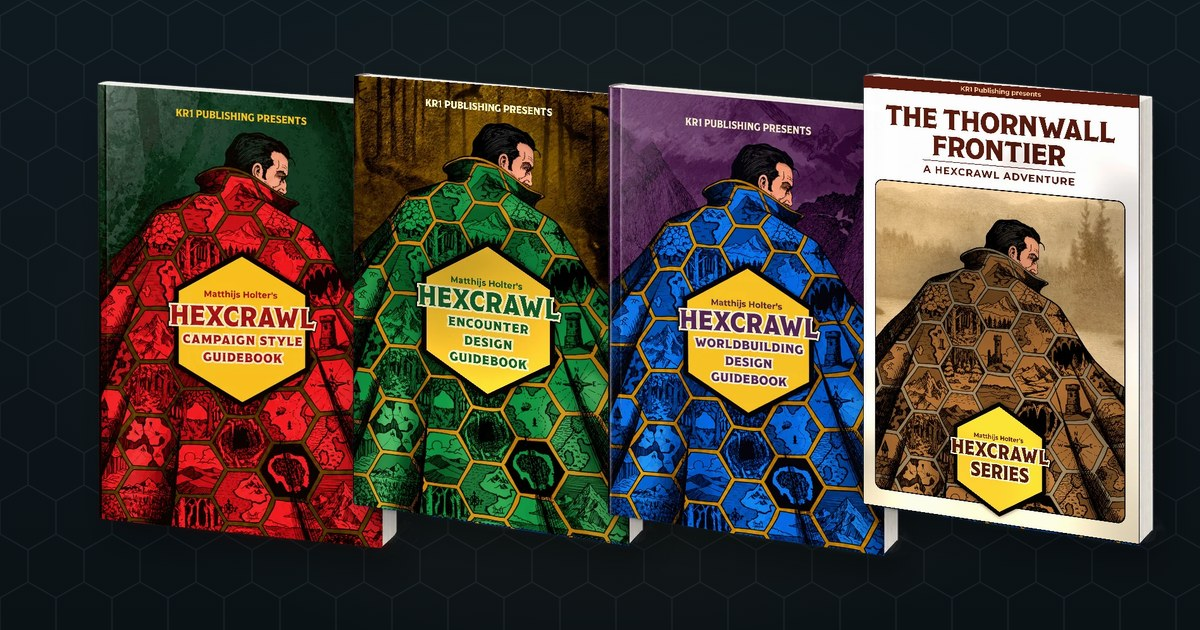
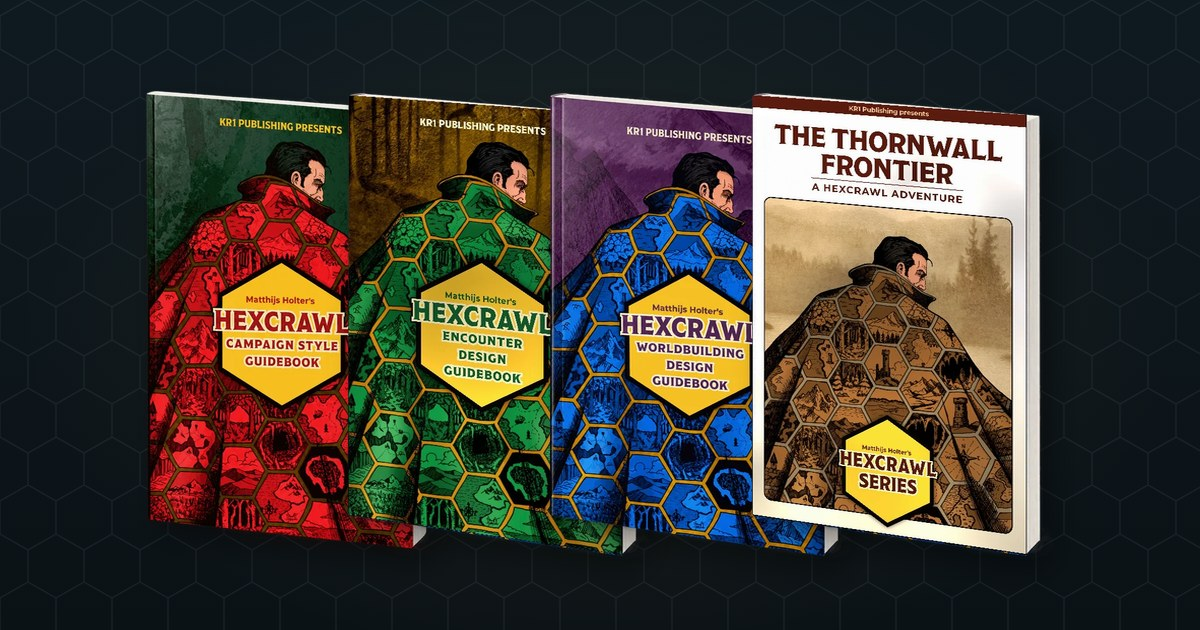
Gründer page: six roles with period prints from the book, hoard painting band, Accountant and setting facts; even book stacks in series share images
Claude-Session: https://claude.ai/code/session_01Go6ret7jCLgDqqds4EMTee

diff --git a/grunder.html b/grunder.html
@@ -23,7 +23,7 @@
 <link rel="icon" href="/img/ashborn/kr1hex.png">
 <link rel="preload" as="image" href="/img/series/grunder.webp" type="image/webp">
 <script type="application/ld+json">{"@context": "https://schema.org", "@type": "Book", "name": "Gründer: Business Adventure Game", "url": "https://www.kr1publishing.com/grunder", "sameAs": "https://www.drivethrurpg.com/en/product/555680", "author": {"@type": "Person", "name": "Petter Fornes"}, "publisher": {"@type": "Organization", "name": "KR1 Publishing", "url": "https://www.kr1publishing.com"}, "inLanguage": "en", "genre": "Tabletop roleplaying game", "bookFormat": "https://schema.org/Paperback", "image": "https://www.kr1publishing.com/img/covers-hires/grunder.jpg", "description": "A one-shot OSR adventure game for 3 to 6 players on Into the Odd rules."}</script>
-<script type="application/ld+json">{"@context": "https://schema.org", "@type": "FAQPage", "mainEntity": [{"@type": "Question", "name": "Do I need Into the Odd to play?", "acceptedAnswer": {"@type": "Answer", "text": "You do not need it, because Gründer is a complete game. The 24-page rulebook has everything, and it uses the Into the Odd rules by Chris McDowall, so if you know Cairn, Mausritter or Mythic Bastionland you already know how it plays."}}, {"@type": "Question", "name": "Is it really about business?", "acceptedAnswer": {"@type": "Answer", "text": "Only at the edges. At the table it plays like a classic OSR adventure, with a cave, a hoard and soldiers closing in. The business part is the reason you go in, and the last roll at the end."}}, {"@type": "Question", "name": "How long does a game take?", "acceptedAnswer": {"@type": "Answer", "text": "About one evening, since Gründer is built as a one-shot, and the session ends with the final roll that decides the fate of the company."}}, {"@type": "Question", "name": "How many players?", "acceptedAnswer": {"@type": "Answer", "text": "It plays with three to six players and a GM."}}, {"@type": "Question", "name": "Is it available in print?", "acceptedAnswer": {"@type": "Answer", "text": "Yes, as an A5 softcover in full colour. It is print on demand from DriveThruRPG and sold in selected game shops. Shops can order at retailer terms on the vendor page."}}, {"@type": "Question", "name": "Was AI used to make it?", "acceptedAnswer": {"@type": "Answer", "text": "No. The text, layout and editing are made by people, and the art is public domain."}}]}</script>
+<script type="application/ld+json">{"@context": "https://schema.org", "@type": "FAQPage", "mainEntity": [{"@type": "Question", "name": "Do I need Into the Odd to play?", "acceptedAnswer": {"@type": "Answer", "text": "You do not need it, because Gründer is a complete game. The 24-page rulebook has everything, and it uses the Into the Odd rules by Chris McDowall, so if you know Cairn, Mausritter or Mythic Bastionland you already know how it plays."}}, {"@type": "Question", "name": "Is it really about business?", "acceptedAnswer": {"@type": "Answer", "text": "Only at the edges. At the table it plays like a classic OSR adventure, with a cave, a hoard and soldiers closing in. The business part is the reason you go in, and the last roll at the end."}}, {"@type": "Question", "name": "How long does a game take?", "acceptedAnswer": {"@type": "Answer", "text": "About one evening, since Gründer is built as a one-shot, and the session ends with the final roll that decides the fate of the company."}}, {"@type": "Question", "name": "How many players?", "acceptedAnswer": {"@type": "Answer", "text": "Three to six, counting the GM. One player is the Accountant, who prepares the adventure and runs the game, and the others each play a Gründer."}}, {"@type": "Question", "name": "Is it available in print?", "acceptedAnswer": {"@type": "Answer", "text": "Yes, as an A5 softcover in full colour. It is print on demand from DriveThruRPG and sold in selected game shops. Shops can order at retailer terms on the vendor page."}}, {"@type": "Question", "name": "Was AI used to make it?", "acceptedAnswer": {"@type": "Answer", "text": "No. The text, layout and editing are made by people, and the art is public domain."}}]}</script>
 <style>
 :root{--ink:#1a0d08;--acc:#e8a33d;--acc-soft:#f0bc6a;--bone:#f0e6d8;--text:#dccfbd;--muted:#a08f7c;--night:#170c09;--night2:#1e110c;--dark:#120906;--card:#24150f;--line:#3a2519;--herobg:radial-gradient(ellipse 60% 80% at 74% 50%,rgba(232,163,61,.16),transparent 70%),linear-gradient(180deg,#25130d,#170c09)}
 
@@ -147,6 +147,15 @@ footer a:hover{text-decoration:underline}
 .inside li{margin-bottom:8px;break-inside:avoid}
 @media(max-width:640px){.inside{columns:1}}
 .made{border-left:3px solid var(--acc);padding-left:20px;margin-top:30px}
+.roles{display:grid;grid-template-columns:repeat(3,1fr);gap:18px;margin-top:30px}
+@media(max-width:860px){.roles{grid-template-columns:repeat(2,1fr)}}
+@media(max-width:520px){.roles{grid-template-columns:1fr}}
+.role{background:var(--card);border:1px solid var(--line);border-radius:8px;overflow:hidden}
+.role img{display:block;width:100%;height:auto;aspect-ratio:720/503;object-fit:cover;filter:sepia(.35) contrast(1.05)}
+.role div{padding:16px 18px 18px}
+.role h3{font-family:var(--disp);font-size:18px;color:#fff;letter-spacing:.04em;margin-bottom:6px}
+.role p{font-size:16px;line-height:1.5}
+.hoard{background:linear-gradient(180deg,rgba(18,9,6,.86),rgba(18,9,6,.93)),url(/img/grunder/hoard-band.webp) center/cover no-repeat}
 
 
 .shops{display:grid;grid-template-columns:repeat(auto-fit,minmax(220px,1fr));gap:14px;margin-top:26px}
@@ -161,7 +170,7 @@ footer a:hover{text-decoration:underline}
 <body>
 <nav><div class="in">
   <a class="logo" href="/"><img src="/img/ashborn/kr1hex.svg" alt="" width="30" height="34">KR1 PUBLISHING</a>
-  <ul><li><a href="#premise">The premise</a></li><li><a href="#play">How it plays</a></li><li><a href="#inside">What is inside</a></li><li><a href="#faq">Questions</a></li></ul>
+  <ul><li><a href="#premise">The premise</a></li><li><a href="#play">How it plays</a></li><li><a href="#roles">The roles</a></li><li><a href="#inside">What is inside</a></li></ul>
   <a class="btn sm" href="https://www.drivethrurpg.com/en/product/555680?affiliate_id=927841&src=site_grunder" target="_blank" rel="noopener">Get Gründer</a>
 </div></nav>
 
@@ -181,7 +190,7 @@ footer a:hover{text-decoration:underline}
 </div></div></header>
 
 <div class="proofbar"><div class="in">
-  <div><b>3&ndash;6</b><span>players and a GM</span></div>
+  <div><b>3&ndash;6</b><span>players, GM included</span></div>
   <div><b>1</b><span>evening</span></div>
   <div><b>24</b><span>page rulebook</span></div>
   <div><b>400+</b><span>copies sold</span></div>
@@ -193,12 +202,13 @@ footer a:hover{text-decoration:underline}
     <h2>A race to the hoard <em>and a way back out</em></h2>
     <p class="lead">You found a company together with a few other ambitious minds, but you have no money. Rumor says a dead killer kept a hoard in a cave outside town, and you are not the only ones who heard it.</p>
     <p>Thirty soldiers are on the road to take it, and all you have is a head start. Every room you open and every risk you take is a choice between more capital and a way home.</p>
+    <p>The game is set in the Holy Roman Empire of the 16th century, with a touch of the mythical. Money is counted in thalers, and the GM is called the Accountant.</p>
     <p>Petter Fornes wrote, designed and laid out the game himself in Trondheim. It plays like a classic OSR adventure, with a company sheet next to the character sheet.</p>
   </div>
   <div class="ledger"><h3>The question at the heart of it</h3><p style="color:#2b1d12;font-family:var(--disp);font-size:clamp(24px,3vw,32px);line-height:1.25">Can your Company secure enough capital to survive?</p><small>Whatever you carry out of the cave becomes your capital. The last roll of the night decides the answer.</small></div>
 </div></div></section>
 
-<section class="band" id="play"><div class="in">
+<section class="band hoard" id="play"><div class="in">
   <div class="center"><div class="kicker">How it plays</div><h2>How an evening <em>plays out</em></h2></div>
   <div class="cards">
     <div class="card"><div class="qn">1</div><h3>Found the company</h3><p>Make characters and fill in the company sheet together: who you are, what you want to build and how much you are willing to risk for it.</p></div>
@@ -207,6 +217,13 @@ footer a:hover{text-decoration:underline}
   </div>
 </div></section>
 
+
+<section id="roles"><div class="in">
+  <div class="center"><div class="kicker">The roles</div><h2>Six Gr&uuml;nders <em>with nothing but ambition</em></h2>
+  <p class="lead narrow">Every Gr&uuml;nder starts with a past, a few belongings and a reason to want the money. Pick one of six roles, roll the rest and answer the questions on the page.</p></div>
+  <div class="roles"><article class="role"><img src="/img/grunder/landsknecht.webp" alt="Landsknecht, period print used in Gr&uuml;nder" width="720" height="503" loading="lazy"><div><h3>Landsknecht</h3><p>A mercenary for the Emperor, or for the highest bidder. Puff and slash outfit, a feathered hat and a katzbalger sword.</p></div></article><article class="role"><img src="/img/grunder/lay-monastic.webp" alt="Lay Monastic, period print used in Gr&uuml;nder" width="720" height="503" loading="lazy"><div><h3>Lay Monastic</h3><p>A disciplined life in a monastery, without ever being ordained. Loose robes, a bible, ink and a quill.</p></div></article><article class="role"><img src="/img/grunder/peasant-serf.webp" alt="Peasant Serf, period print used in Gr&uuml;nder" width="720" height="503" loading="lazy"><div><h3>Peasant Serf</h3><p>A small farm, bound to the land of your lord. A worn woollen tunic, a ten-foot stick and a pitchfork.</p></div></article><article class="role"><img src="/img/grunder/rat-catcher.webp" alt="Rat Catcher, period print used in Gr&uuml;nder" width="720" height="503" loading="lazy"><div><h3>Rat Catcher</h3><p>The dirty jobs the fine folk would not touch. A patchy fur coat, a skinning knife and a cage full of rats.</p></div></article><article class="role"><img src="/img/grunder/silver-miner.webp" alt="Silver Miner, period print used in Gr&uuml;nder" width="720" height="503" loading="lazy"><div><h3>Silver Miner</h3><p>Years in the dark and the choking air, digging for someone else&rsquo;s profit. Pit trousers, a leather apron and a pick axe.</p></div></article><article class="role"><img src="/img/grunder/town-musician.webp" alt="Town Musician, period print used in Gr&uuml;nder" width="720" height="503" loading="lazy"><div><h3>Town Musician</h3><p>Joy for hamlets and big towns alike, living from hand to mouth. Puffy breeches, an extravagant cape and a sharp dagger.</p></div></article></div>
+  <p class="note center" style="margin-top:18px">The art in the book and on this page is public domain, from 16th and 17th century prints and paintings.</p>
+</div></section>
 <section id="inside"><div class="in"><div class="split">
   <div>
     <div class="kicker">What is inside</div>
@@ -230,11 +247,11 @@ footer a:hover{text-decoration:underline}
 
 <section class="band" id="faq"><div class="in">
   <div class="center"><div class="kicker">Questions</div><h2>Before you buy</h2></div>
-  <div class="faq"><details><summary>Do I need Into the Odd to play?</summary><p>You do not need it, because Gründer is a complete game. The 24-page rulebook has everything, and it uses the Into the Odd rules by Chris McDowall, so if you know Cairn, Mausritter or Mythic Bastionland you already know how it plays.</p></details><details><summary>Is it really about business?</summary><p>Only at the edges. At the table it plays like a classic OSR adventure, with a cave, a hoard and soldiers closing in. The business part is the reason you go in, and the last roll at the end.</p></details><details><summary>How long does a game take?</summary><p>About one evening, since Gründer is built as a one-shot, and the session ends with the final roll that decides the fate of the company.</p></details><details><summary>How many players?</summary><p>It plays with three to six players and a GM.</p></details><details><summary>Is it available in print?</summary><p>Yes, as an A5 softcover in full colour. It is print on demand from DriveThruRPG and sold in selected game shops. Shops can order at retailer terms on the <a href="/vendor">vendor page</a>.</p></details><details><summary>Was AI used to make it?</summary><p>No. The text, layout and editing are made by people, and the art is public domain.</p></details></div>
+  <div class="faq"><details><summary>Do I need Into the Odd to play?</summary><p>You do not need it, because Gründer is a complete game. The 24-page rulebook has everything, and it uses the Into the Odd rules by Chris McDowall, so if you know Cairn, Mausritter or Mythic Bastionland you already know how it plays.</p></details><details><summary>Is it really about business?</summary><p>Only at the edges. At the table it plays like a classic OSR adventure, with a cave, a hoard and soldiers closing in. The business part is the reason you go in, and the last roll at the end.</p></details><details><summary>How long does a game take?</summary><p>About one evening, since Gründer is built as a one-shot, and the session ends with the final roll that decides the fate of the company.</p></details><details><summary>How many players?</summary><p>Three to six, counting the GM. One player is the Accountant, who prepares the adventure and runs the game, and the others each play a Gründer.</p></details><details><summary>Is it available in print?</summary><p>Yes, as an A5 softcover in full colour. It is print on demand from DriveThruRPG and sold in selected game shops. Shops can order at retailer terms on the <a href="/vendor">vendor page</a>.</p></details><details><summary>Was AI used to make it?</summary><p>No. The text, layout and editing are made by people, and the art is public domain.</p></details></div>
 </div></section>
 <section id="more"><div class="in">
   <div class="center"><div class="kicker">More from KR1</div><h2>Other books on the same shelf</h2></div>
-  <div class="more"><a href="/westmarches"><img src="/img/series/og-westmarches.jpg" alt="" loading="lazy" width="1200" height="630"><span>West Marches<small>Open table campaigns</small></span></a><a href="/hexcrawl"><img src="/img/series/og-hexcrawl.jpg" alt="" loading="lazy" width="1200" height="630"><span>Hexcrawl<small>Wilderness exploration</small></span></a><a href="/ashborn"><img src="/img/ashborn/og-ashborn.jpg" alt="" loading="lazy" width="1200" height="630"><span>Ashborn<small>Coming to BackerKit 2027</small></span></a></div>
+  <div class="more"><a href="/westmarches"><img src="/img/series/og-westmarches.jpg?v=2" alt="" loading="lazy" width="1200" height="630"><span>West Marches<small>Open table campaigns</small></span></a><a href="/hexcrawl"><img src="/img/series/og-hexcrawl.jpg?v=3" alt="" loading="lazy" width="1200" height="630"><span>Hexcrawl<small>Wilderness exploration</small></span></a><a href="/ashborn"><img src="/img/ashborn/og-ashborn.jpg" alt="" loading="lazy" width="1200" height="630"><span>Ashborn<small>Coming to BackerKit 2027</small></span></a></div>
 </div></section>
 <footer><div class="in">
   <div class="cred">Written, designed and laid out by Petter Fornes &middot; Rules from Into the Odd by Chris McDowall &middot; Published by KR1 Publishing</div>

diff --git a/hexcrawl.html b/hexcrawl.html
@@ -10,7 +10,7 @@
 <meta property="og:site_name" content="KR1 Publishing">
 <meta property="og:title" content="Hexcrawl: wilderness campaigns where the journey is the adventure">
 <meta property="og:description" content="Matthijs Holter's Hexcrawl series: the Campaign Style, Encounter Design and Worldbuilding Design Guidebooks and The Thornwall Frontier. System-neutral tools for hexcrawl and sandbox play. 6,900+ copies sold.">
-<meta property="og:image" content="https://www.kr1publishing.com/img/series/og-hexcrawl.jpg">
+<meta property="og:image" content="https://www.kr1publishing.com/img/series/og-hexcrawl.jpg?v=3">
 <meta property="og:image:width" content="1200">
 <meta property="og:image:height" content="630">
 <meta property="og:image:alt" content="The four Hexcrawl books by Matthijs Holter">
@@ -18,7 +18,7 @@
 <meta name="twitter:card" content="summary_large_image">
 <meta name="twitter:title" content="Hexcrawl: wilderness campaigns where the journey is the adventure">
 <meta name="twitter:description" content="Matthijs Holter's Hexcrawl series: the Campaign Style, Encounter Design and Worldbuilding Design Guidebooks and The Thornwall Frontier. System-neutral tools for hexcrawl and sandbox play. 6,900+ copies sold.">
-<meta name="twitter:image" content="https://www.kr1publishing.com/img/series/og-hexcrawl.jpg">
+<meta name="twitter:image" content="https://www.kr1publishing.com/img/series/og-hexcrawl.jpg?v=3">
 <meta name="theme-color" content="#0b1216">
 <link rel="icon" href="/img/ashborn/kr1hex.png">
 <link rel="preload" as="image" href="/img/series/hexcrawl-encounter.webp" type="image/webp">
@@ -242,7 +242,7 @@ footer a:hover{text-decoration:underline}
 </div></section>
 <section id="more"><div class="in">
   <div class="center"><div class="kicker">More from KR1</div><h2>Other books on the same shelf</h2></div>
-  <div class="more"><a href="/westmarches"><img src="/img/series/og-westmarches.jpg" alt="" loading="lazy" width="1200" height="630"><span>West Marches<small>Open table campaigns</small></span></a><a href="/grunder"><img src="/img/series/og-grunder.jpg" alt="" loading="lazy" width="1200" height="630"><span>Gr&uuml;nder<small>A one-shot OSR adventure</small></span></a><a href="/ashborn"><img src="/img/ashborn/og-ashborn.jpg" alt="" loading="lazy" width="1200" height="630"><span>Ashborn<small>Coming to BackerKit 2027</small></span></a></div>
+  <div class="more"><a href="/westmarches"><img src="/img/series/og-westmarches.jpg?v=2" alt="" loading="lazy" width="1200" height="630"><span>West Marches<small>Open table campaigns</small></span></a><a href="/grunder"><img src="/img/series/og-grunder.jpg" alt="" loading="lazy" width="1200" height="630"><span>Gr&uuml;nder<small>A one-shot OSR adventure</small></span></a><a href="/ashborn"><img src="/img/ashborn/og-ashborn.jpg" alt="" loading="lazy" width="1200" height="630"><span>Ashborn<small>Coming to BackerKit 2027</small></span></a></div>
 </div></section>
 <footer><div class="in">
   <div class="cred">Written by Matthijs Holter &middot; Edited by Karl Otto Kristoffersen &middot; Layout by Michael Sollien &middot; Cover art by Nicolai Str&oslash;m &middot; Published by KR1 Publishing</div>

diff --git a/westmarches.html b/westmarches.html
@@ -10,7 +10,7 @@
 <meta property="og:site_name" content="KR1 Publishing">
 <meta property="og:title" content="West Marches: run one open campaign for more players than fit at your table">
 <meta property="og:description" content="The West Marches series by Karl Otto Kristoffersen: the Campaign Playstyle Guidebook, GM Workbook, Party Ledger and Player Journal. System-neutral tools for open table campaigns. 4,200+ copies of the Guidebook sold.">
-<meta property="og:image" content="https://www.kr1publishing.com/img/series/og-westmarches.jpg">
+<meta property="og:image" content="https://www.kr1publishing.com/img/series/og-westmarches.jpg?v=2">
 <meta property="og:image:width" content="1200">
 <meta property="og:image:height" content="630">
 <meta property="og:image:alt" content="The four West Marches books by KR1 Publishing">
@@ -18,7 +18,7 @@
 <meta name="twitter:card" content="summary_large_image">
 <meta name="twitter:title" content="West Marches: run one open campaign for more players than fit at your table">
 <meta name="twitter:description" content="The West Marches series by Karl Otto Kristoffersen: the Campaign Playstyle Guidebook, GM Workbook, Party Ledger and Player Journal. System-neutral tools for open table campaigns. 4,200+ copies of the Guidebook sold.">
-<meta name="twitter:image" content="https://www.kr1publishing.com/img/series/og-westmarches.jpg">
+<meta name="twitter:image" content="https://www.kr1publishing.com/img/series/og-westmarches.jpg?v=2">
 <meta name="theme-color" content="#0e1411">
 <link rel="icon" href="/img/ashborn/kr1hex.png">
 <link rel="preload" as="image" href="/img/series/wm-guidebook.webp" type="image/webp">
@@ -242,7 +242,7 @@ footer a:hover{text-decoration:underline}
 </div></section>
 <section id="more"><div class="in">
   <div class="center"><div class="kicker">More from KR1</div><h2>Other books on the same shelf</h2></div>
-  <div class="more"><a href="/hexcrawl"><img src="/img/series/og-hexcrawl.jpg" alt="" loading="lazy" width="1200" height="630"><span>Hexcrawl<small>Wilderness exploration</small></span></a><a href="/grunder"><img src="/img/series/og-grunder.jpg" alt="" loading="lazy" width="1200" height="630"><span>Gr&uuml;nder<small>A one-shot OSR adventure</small></span></a><a href="/ashborn"><img src="/img/ashborn/og-ashborn.jpg" alt="" loading="lazy" width="1200" height="630"><span>Ashborn<small>Coming to BackerKit 2027</small></span></a></div>
+  <div class="more"><a href="/hexcrawl"><img src="/img/series/og-hexcrawl.jpg?v=3" alt="" loading="lazy" width="1200" height="630"><span>Hexcrawl<small>Wilderness exploration</small></span></a><a href="/grunder"><img src="/img/series/og-grunder.jpg" alt="" loading="lazy" width="1200" height="630"><span>Gr&uuml;nder<small>A one-shot OSR adventure</small></span></a><a href="/ashborn"><img src="/img/ashborn/og-ashborn.jpg" alt="" loading="lazy" width="1200" height="630"><span>Ashborn<small>Coming to BackerKit 2027</small></span></a></div>
 </div></section>
 <footer><div class="in">
   <div class="cred">Written and designed by Karl Otto Kristoffersen &middot; Published by KR1 Publishing</div>

diff --git a/index.html b/index.html
@@ -520,8 +520,8 @@
     <h2 style="font-size:clamp(23px,3vw,32px)">Start with a series</h2>
     <p class="lead narrow" style="color:var(--muted)">Every series has its own page with what is in each book, who made it and where to get it.</p></div>
     <div class="proj">
-      <a href="/westmarches"><img src="/img/series/og-westmarches.jpg" alt="The four West Marches books" loading="lazy"><div class="pjb"><div class="pk">Four books &middot; 8,200+ sold</div><h3>West Marches</h3><p>Run one open campaign for more players than fit at your table. The Guidebook, the GM Workbook, the Party Ledger and the Player Journal.</p><span class="go">See West Marches &rarr;</span></div></a>
-      <a href="/hexcrawl"><img src="/img/series/og-hexcrawl.jpg?v=2" alt="The four Hexcrawl books by Matthijs Holter" loading="lazy"><div class="pjb"><div class="pk">Matthijs Holter &middot; 6,900+ sold</div><h3>Hexcrawl</h3><p>Wilderness campaigns where the journey is the adventure. Campaign Style, Encounter Design, Worldbuilding Design and The Thornwall Frontier.</p><span class="go">See Hexcrawl &rarr;</span></div></a>
+      <a href="/westmarches"><img src="/img/series/og-westmarches.jpg?v=2" alt="The four West Marches books" loading="lazy"><div class="pjb"><div class="pk">Four books &middot; 8,200+ sold</div><h3>West Marches</h3><p>Run one open campaign for more players than fit at your table. The Guidebook, the GM Workbook, the Party Ledger and the Player Journal.</p><span class="go">See West Marches &rarr;</span></div></a>
+      <a href="/hexcrawl"><img src="/img/series/og-hexcrawl.jpg?v=3" alt="The four Hexcrawl books by Matthijs Holter" loading="lazy"><div class="pjb"><div class="pk">Matthijs Holter &middot; 6,900+ sold</div><h3>Hexcrawl</h3><p>Wilderness campaigns where the journey is the adventure. Campaign Style, Encounter Design, Worldbuilding Design and The Thornwall Frontier.</p><span class="go">See Hexcrawl &rarr;</span></div></a>
       <a href="/grunder"><img src="/img/series/og-grunder.jpg" alt="Gr&uuml;nder: Business Adventure Game" loading="lazy"><div class="pjb"><div class="pk">Petter Fornes &middot; OSR one-shot</div><h3>Gr&uuml;nder</h3><p>Grab a serial killer's hoard before thirty soldiers do. Whatever you carry out is your start-up capital. Into the Odd rules.</p><span class="go">See Gr&uuml;nder &rarr;</span></div></a>
     </div>
   </div>
